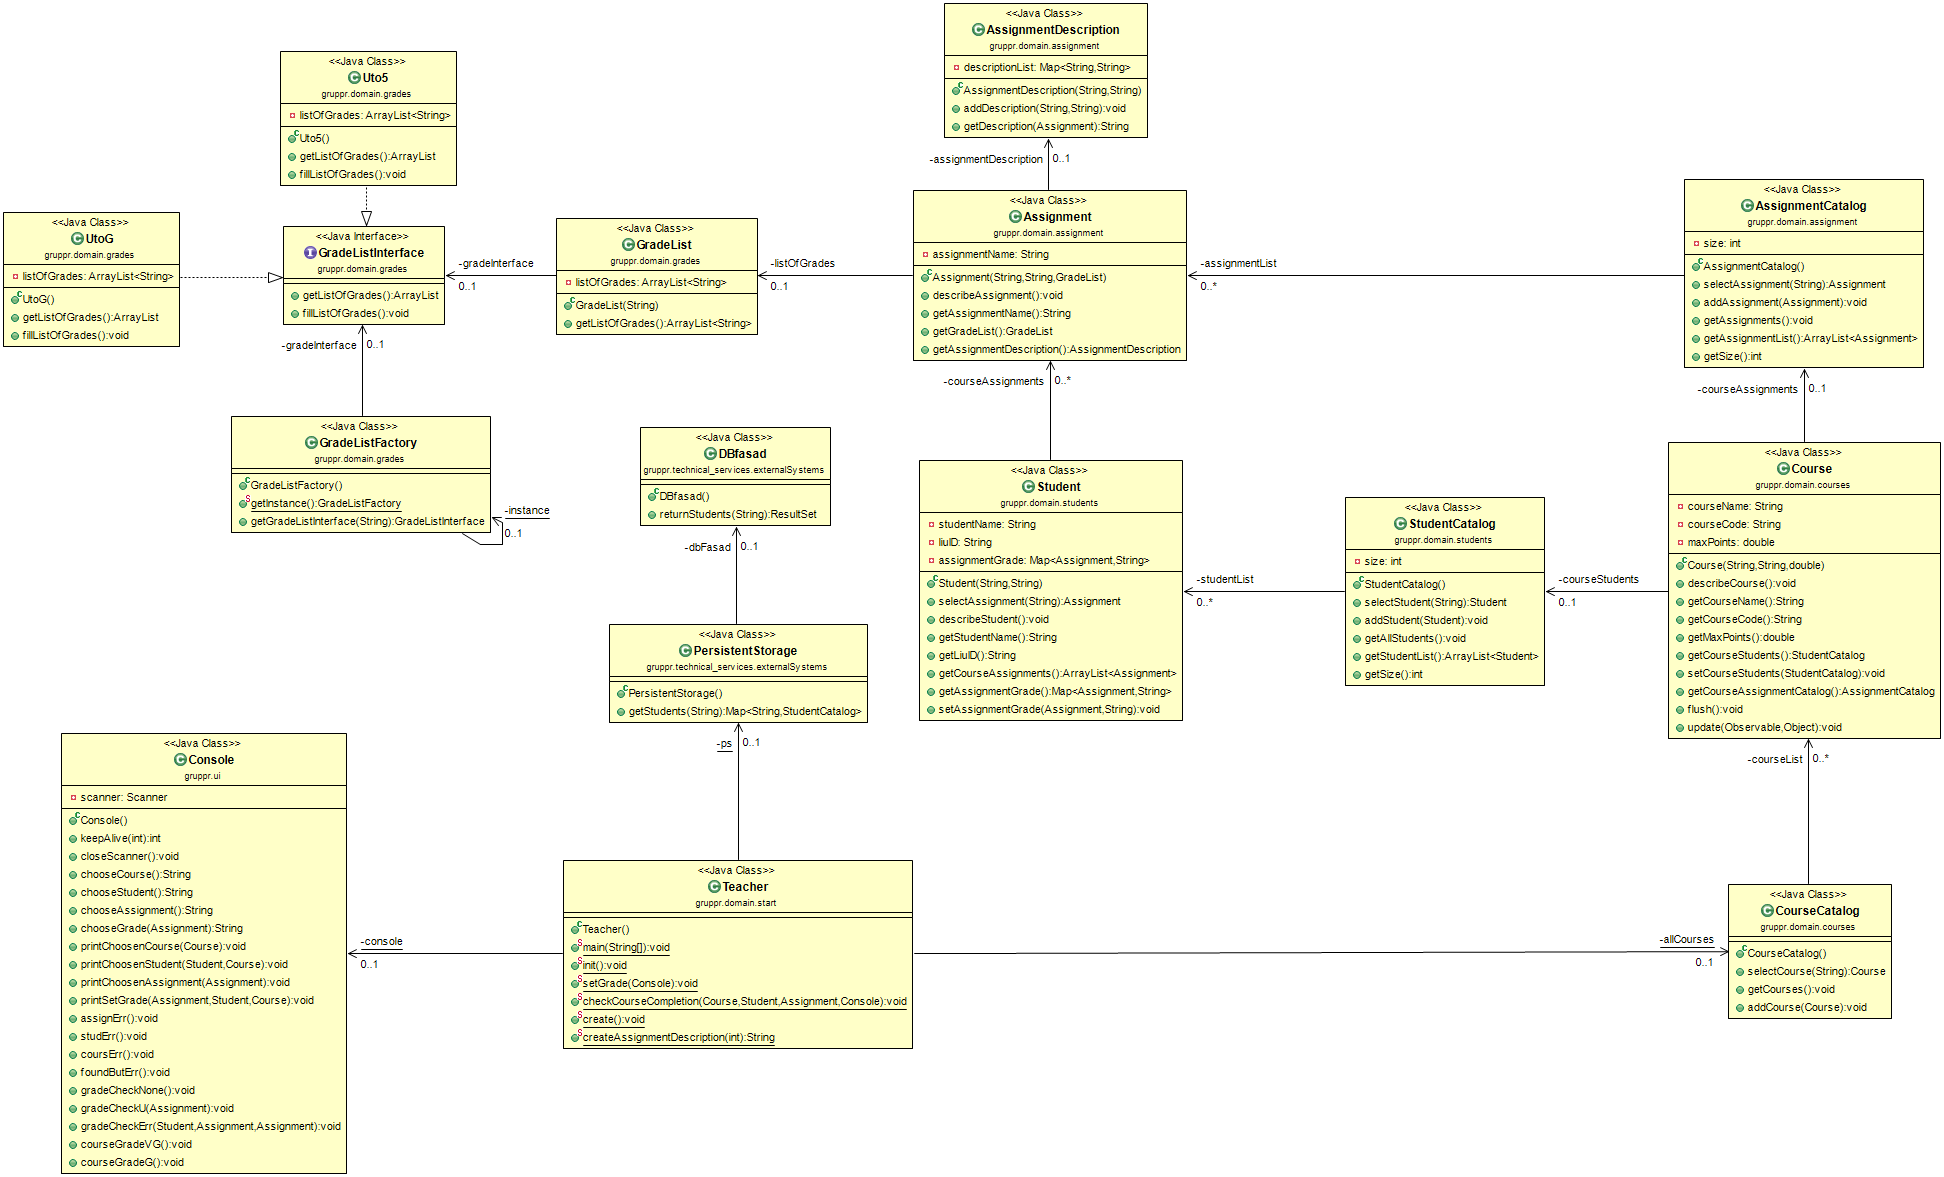
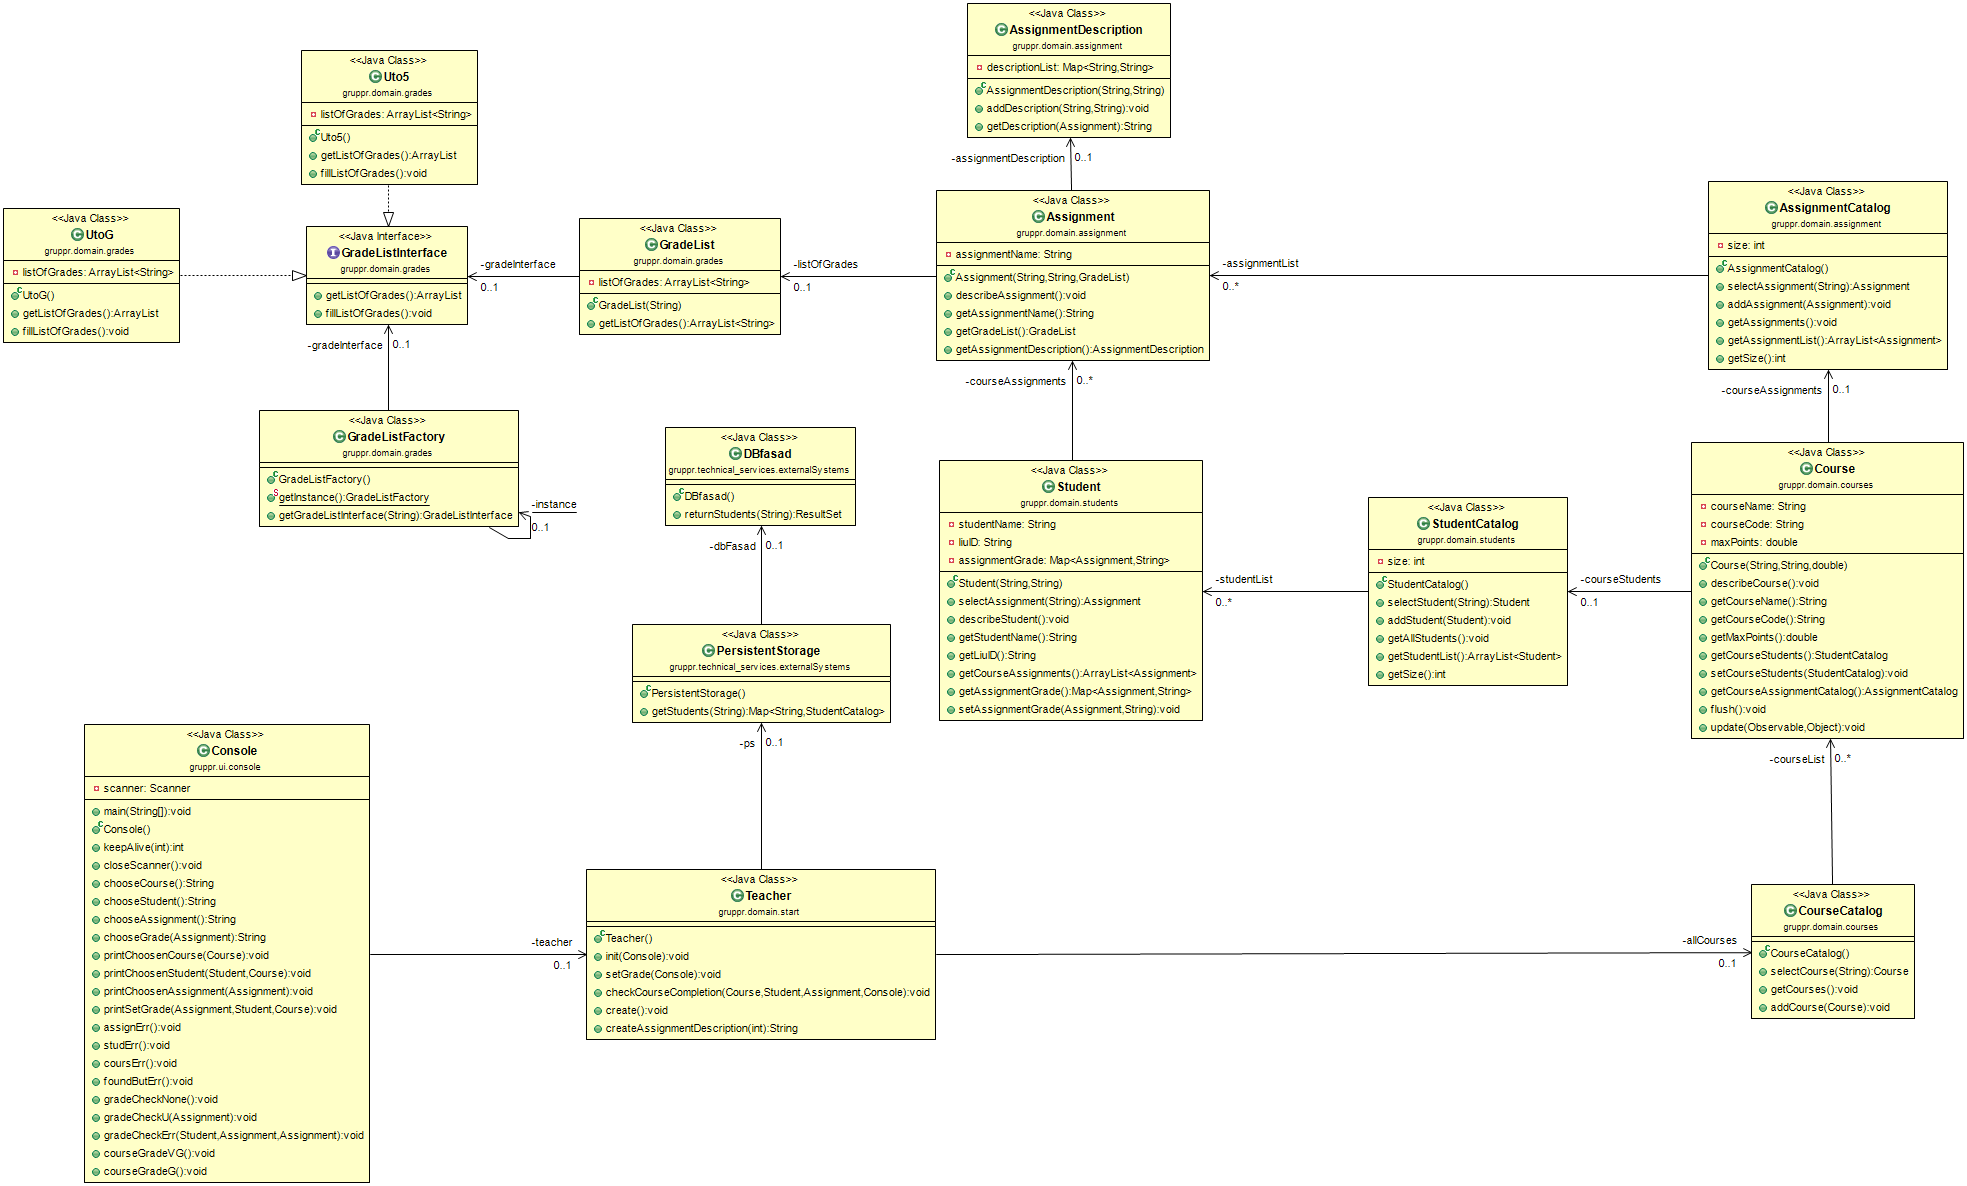
allt klart

diff --git a/src/gruppr/technical_services/externalSystems/PersistentStorage.java b/src/gruppr/technical_services/externalSystems/PersistentStorage.java
@@ -1,37 +1,38 @@
 package gruppr.technical_services.externalSystems;
 
 import java.sql.ResultSet;
+import java.util.ArrayList;
 import java.util.HashMap;
 import java.util.Map;
-
-import gruppr.domain.students.Student;
-import gruppr.domain.students.StudentCatalog;
+import gruppr.technical_services.externalSystems.StudentDTO;
 
 public class PersistentStorage {
 	
 	private DBfasad dbFasad;
+	
+	private ArrayList<StudentDTO> students = new ArrayList<StudentDTO>();
   
 	public PersistentStorage() { 
 		dbFasad = new DBfasad(); 
 	}
 	
-	public Map<String, StudentCatalog> getStudents(String selectedCourse) throws Exception {
+	public Map<String, ArrayList<StudentDTO>> getStudents(String selectedCourse) throws Exception {
 		
 		ResultSet studentInfo = this.dbFasad.returnStudents(selectedCourse);
 		
-		StudentCatalog returnStudentCatalog = new StudentCatalog();
-		Map<String, StudentCatalog> returnMap = new HashMap<>();
+		
+		Map<String, ArrayList<StudentDTO>> returnMap = new HashMap<String, ArrayList<StudentDTO>>();
 		
 		while (studentInfo.next()) {
 			
 			String studentLiID = studentInfo.getString("liuID");
 			String studentName = studentInfo.getString("name");
 			
-			Student currentStudent = new Student(studentLiID, studentName);
-			returnStudentCatalog.addStudent(currentStudent);
+			StudentDTO currentStudent = new StudentDTO(studentLiID, studentName);
+			students.add(currentStudent);
 		}
 		
-		returnMap.put(selectedCourse, returnStudentCatalog);
+		returnMap.put(selectedCourse, students);
 		return returnMap;
 	}
 

diff --git a/src/gruppr/domain/students/Student.java b/src/gruppr/domain/students/Student.java
@@ -6,8 +6,9 @@ import java.util.Map;
 import java.util.Observable;
 
 import gruppr.domain.assignment.Assignment;
+import gruppr.technical_services.externalSystems.StudentDTO;
 
-public class Student extends Observable{
+public class Student extends Observable {
 	private String studentName;
 	private String liuID;
 	private ArrayList<Assignment> courseAssignments = new ArrayList<>();
@@ -18,6 +19,10 @@ public class Student extends Observable{
 		this.liuID = liuID;
 	}
 	
+	public Student(StudentDTO dto) {
+		this(dto.getLiuID(), dto.getStudentName());
+	}
+
 	public Assignment selectAssignment(String assignment) {
 		for (Assignment a : this.courseAssignments) {
 			if(a.getAssignmentName() != null && a.getAssignmentName().equals(assignment)) {

diff --git a/src/gruppr/domain/students/StudentCatalog.java b/src/gruppr/domain/students/StudentCatalog.java
@@ -2,11 +2,21 @@ package gruppr.domain.students;
 
 import java.util.ArrayList;
 
+import gruppr.technical_services.externalSystems.StudentDTO;
+
 public class StudentCatalog {
 	
 	private int size = 0;
 	private ArrayList<Student> studentList = new ArrayList<>();
 	
+	public StudentCatalog(){}
+	
+	public StudentCatalog(ArrayList<StudentDTO> arrayList) {
+		for (StudentDTO dto : arrayList) {
+			studentList.add(new Student(dto));
+		}
+	}
+
 	public Student selectStudent(String student) {
 		for (Student s : this.studentList) {
 			if(s.getLiuID() != null && s.getLiuID().equals(student)) {

diff --git a/src/gruppr/ui/console/Console.java b/src/gruppr/ui/console/Console.java
@@ -1,15 +1,23 @@
-package gruppr.ui;
+package gruppr.ui.console;
 
 import java.util.InputMismatchException;
 import java.util.Scanner;
 
 import gruppr.domain.assignment.Assignment;
 import gruppr.domain.courses.Course;
+import gruppr.domain.start.Teacher;
 import gruppr.domain.students.Student;
 
 public class Console {
 	
 	private Scanner scanner;
+	private Teacher teacher = new Teacher();
+	
+	public void main(String[] args) throws Exception {	
+		teacher.create();
+		teacher.init(this);
+		
+	}
 
 	public Console() {
 		this.scanner = new Scanner(System.in);

diff --git a/src/gruppr/technical_services/externalSystems/StudentDTO.java b/src/gruppr/technical_services/externalSystems/StudentDTO.java
@@ -1,0 +1,29 @@
+package gruppr.technical_services.externalSystems;
+
+public class StudentDTO {
+	
+	private String studentName;
+	private String liuID;
+	
+	public StudentDTO(String studentName, String liuID) {
+		super();
+		this.studentName = studentName;
+		this.liuID = liuID;
+	}
+	
+	public String getStudentName() {
+		return studentName;
+	}
+	public void setStudentName(String studentName) {
+		this.studentName = studentName;
+	}
+	public String getLiuID() {
+		return liuID;
+	}
+	public void setLiuID(String liuID) {
+		this.liuID = liuID;
+	}
+	
+	
+
+}
